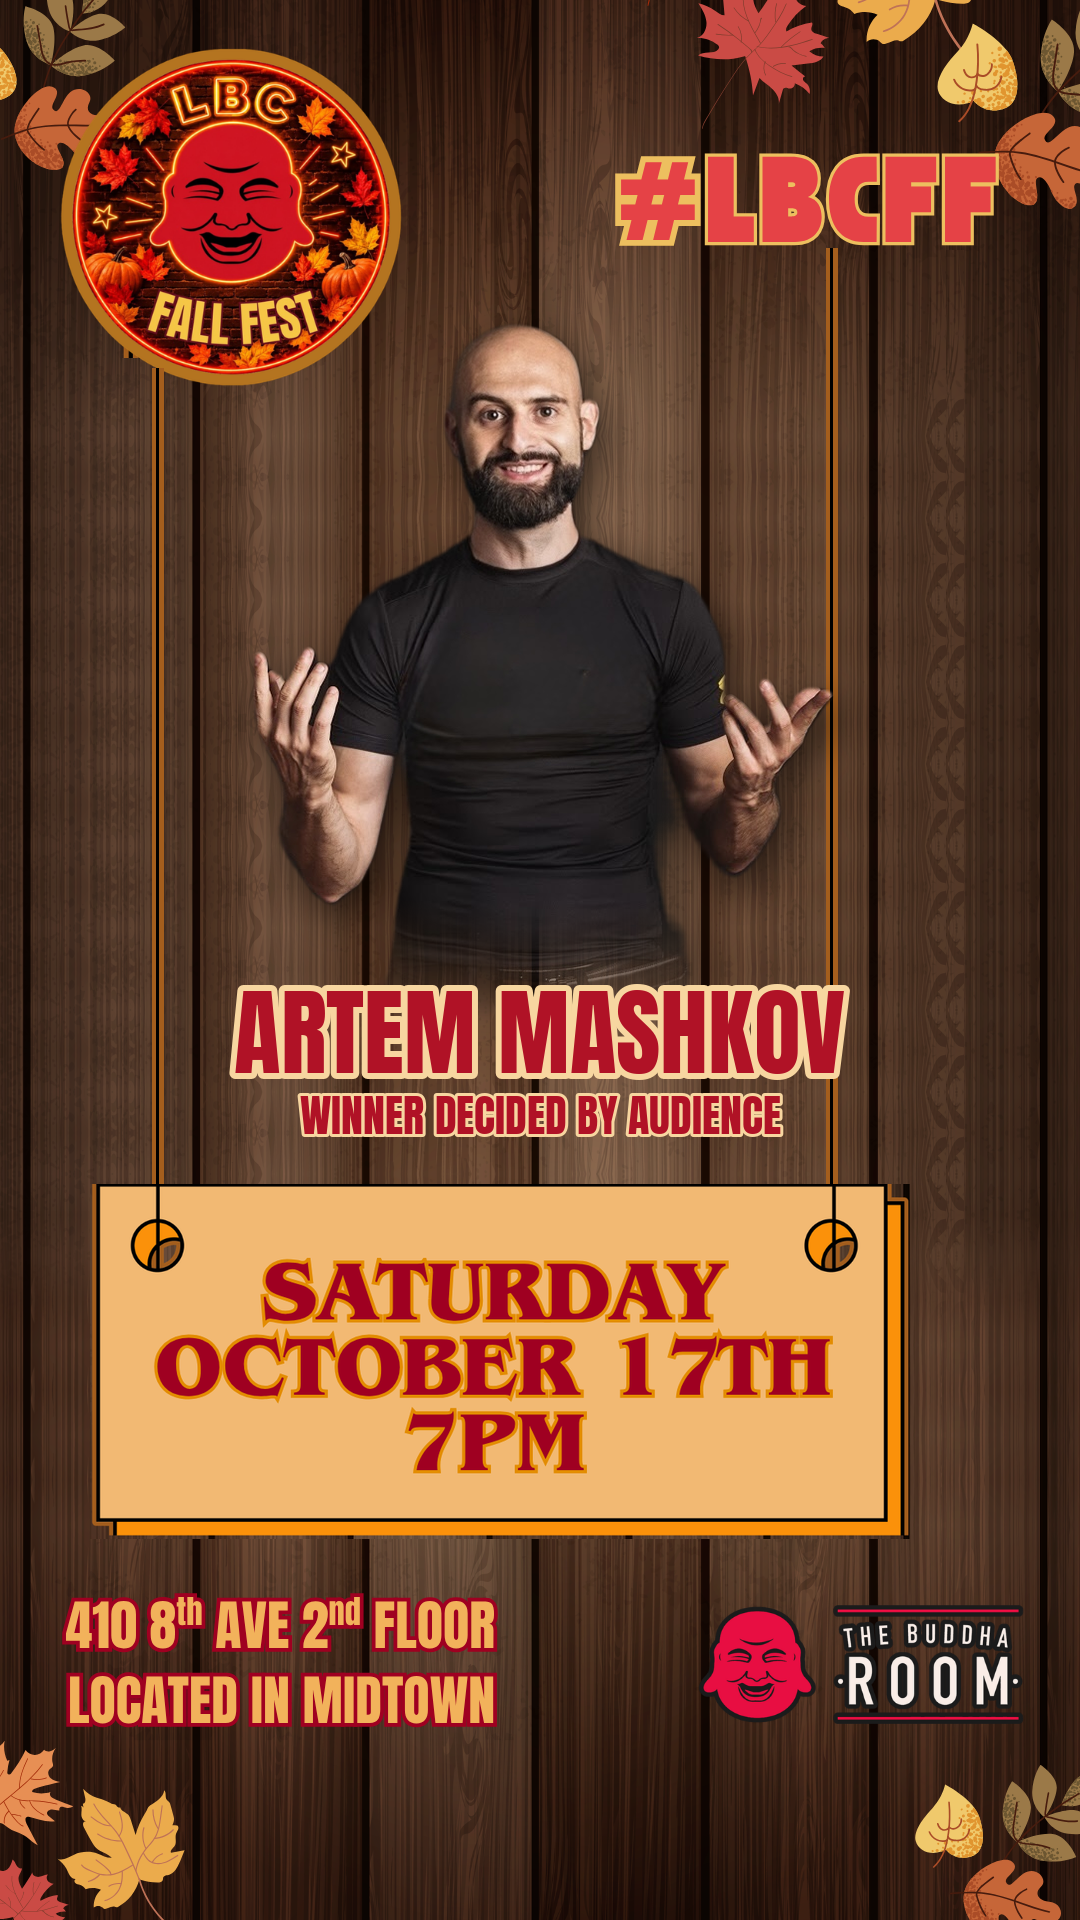
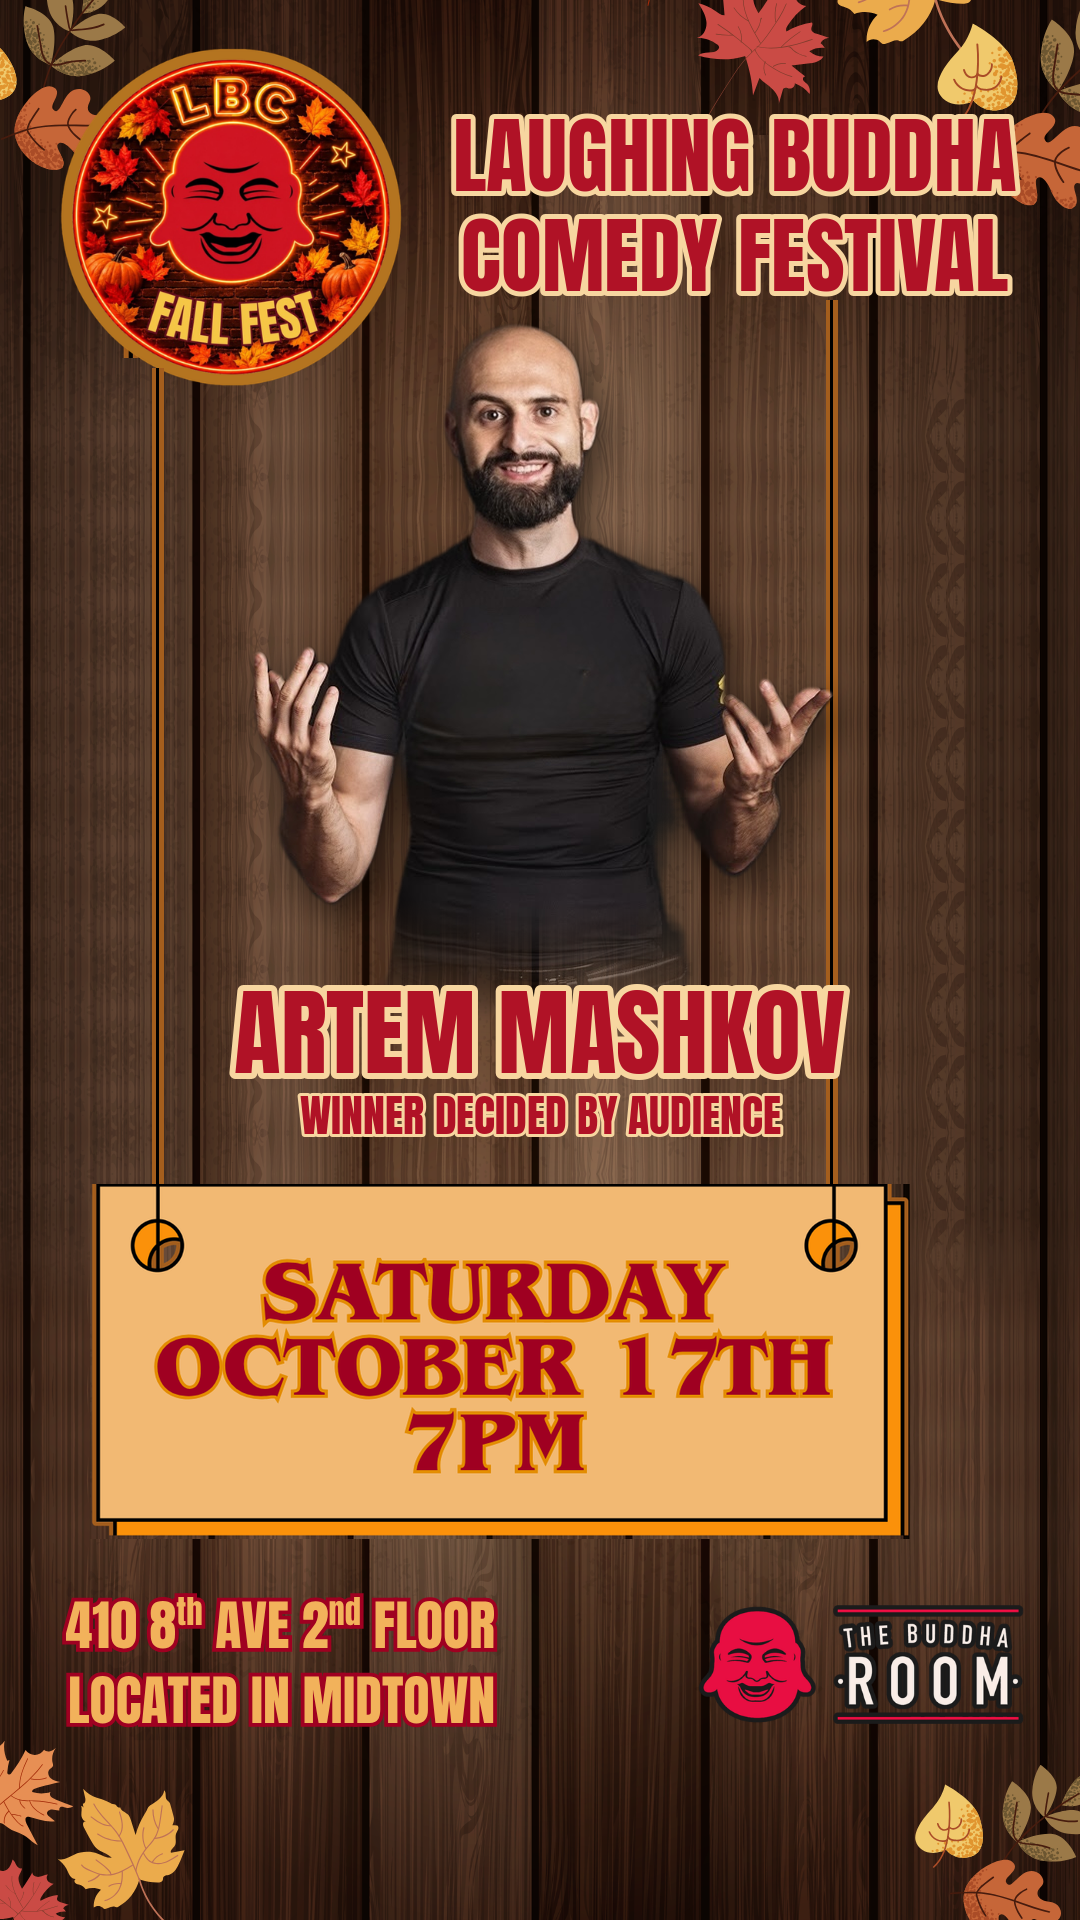
promo: spell out Laughing Buddha Comedy Festival at top of flyer and caption
Claude-Session: https://claude.ai/code/session_011uqaQVvdk5VdkevmHxQqu7

Changed region(s): [[0.3972, 0.0625, 0.9472, 0.1562]]

diff --git a/flyer_insert.py b/flyer_insert.py
@@ -41,6 +41,25 @@ def _clean():
 CLEAN = _clean()
 
 
+def _erase_hashtag(im):
+    """Paint #LBCFF out with mirrored planks from just below it (same columns, so no seam)."""
+    band = im.crop((600, 252, 1000, 300))
+    patch = Image.new("RGB", (400, 120))
+    for i, y in enumerate(range(0, 120, band.height)):
+        patch.paste(band if i % 2 else band.transpose(Image.FLIP_TOP_BOTTOM), (0, 120 - y - band.height))
+    im.paste(patch, (600, 135))
+
+
+_erase_hashtag(CLEAN)
+HEADER_BOTTOM = 300  # festival name ends here; right-hand string hangs from it
+
+
+def festival_name(canvas):
+    d = ImageDraw.Draw(canvas)
+    outlined(d, (735, 92), "LAUGHING BUDDHA", 84, anchor="ma")
+    outlined(d, (735, 192), "COMEDY FESTIVAL", 84, anchor="ma")
+
+
 def _mirror_tile(band, h, from_bottom=False):
     """Stack band / flipped band so every joint is continuous (planks run vertically)."""
     tiles = [band, band.transpose(Image.FLIP_TOP_BOTTOM)]
@@ -161,11 +180,12 @@ def feed():
     c.paste(wood(BOTTOM_START - TOP_END), (0, TOP_END))
     c = c.convert("RGBA")
     s, sx, sy = 0.55, 46, 590
-    prelim = place_sign(c, s, sx, sy, string_tops=("logo", 0))
+    prelim = place_sign(c, s, sx, sy, string_tops=("logo", HEADER_BOTTOM))
     person(c, 600, 1080 - 515, 412, fade=90)
     d = ImageDraw.Draw(c)
     outlined(d, (sx + 8, 870), NAME, 66)
     outlined(d, (sx + 10, 950), TAGLINE, 32)
+    festival_name(c)
     return c.convert("RGB")
 
 
@@ -177,11 +197,12 @@ def story():
     c.paste(CLEAN.crop((0, BOTTOM_START, 1080, 1350)), (0, TOP_END + mid))
     c = c.convert("RGBA")
     s, sx, sy = 0.82, 90, 1180
-    prelim = place_sign(c, s, sx, sy, string_tops=("logo", 248))
+    prelim = place_sign(c, s, sx, sy, string_tops=("logo", HEADER_BOTTOM))
     person(c, 730, 1080 // 2 - 317, 290, fade=120)
     d = ImageDraw.Draw(c)
     outlined(d, (540, 960), NAME, 96, anchor="ma")
     outlined(d, (540, 1082), TAGLINE, 44, anchor="ma")
+    festival_name(c)
     return c.convert("RGB")
 
 

diff --git a/captions.md b/captions.md
@@ -16,7 +16,7 @@ Tickets: link in bio 🎟
 
 ## Caption for the flyer post (Artem's own words, tidied)
 
-Back in the LBC Fall Fest 🍂 Last festival I made it to the semifinals and finished in the top 36 out of 400 comics. Let's see how far I can go this time.
+Back in the Laughing Buddha Comedy Festival 🍂 Last festival I made it to the semifinals and finished in the top 36 out of 400 comics. Let's see how far I can go this time.
 
 Saturday, Oct 17 at 7PM at The Buddha Room (410 8th Ave, 2nd floor). The audience picks who moves on, so having you in the room matters. Let me know if you're free that night. Really appreciate the support 🙏
 
